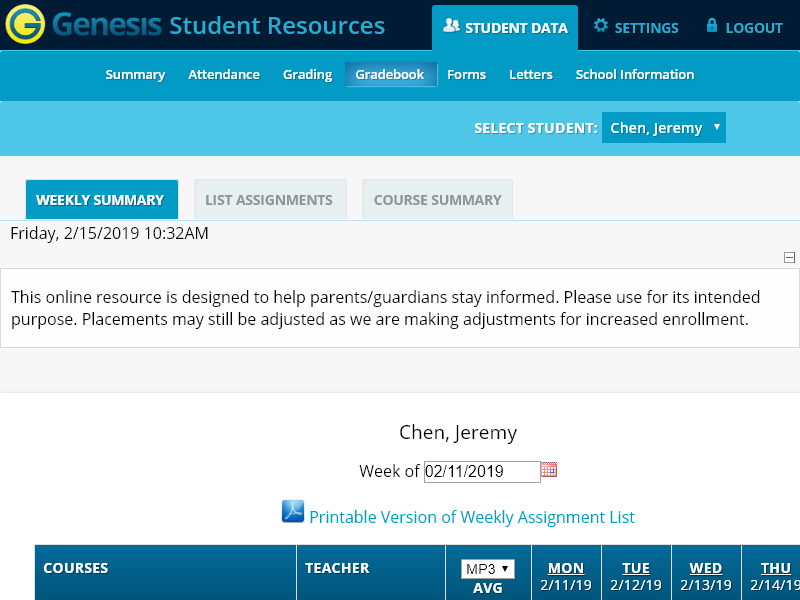
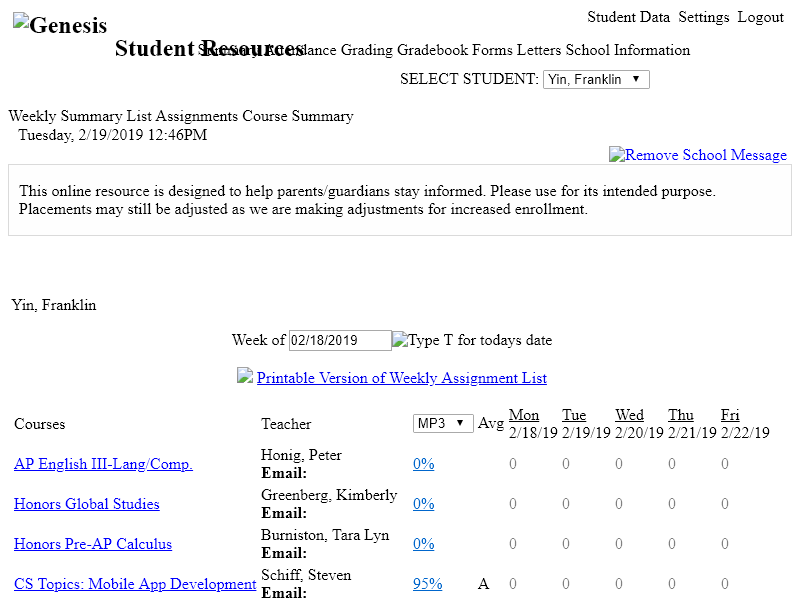
added URL params

diff --git a/puppet.js b/puppet.js
@@ -6,12 +6,14 @@ const bodyParser = require('body-parser');
 const app = express()
 const port = 3000
 app.use(bodyParser.json());
+app.use(bodyParser.urlencoded({ extended: true })); // support encoded bodies
 
 app.post('/', async (req, res) => {
-	//const username = req.body.username;
-	//const password = .password;
+	const username = req.body.username;//'10012734'
+	const password = req.body.password; //'Sled%2#9'
+	console.log(username	);
 	console.log(req.body);
-	var dataObj = await getData()
+	var dataObj = await getData(username,password)
 	res.send(dataObj)
 	})
 
@@ -19,21 +21,23 @@ app.listen(port, () => console.log(`Example app listening on port ${port}!`))
 
 const url = 'https://students.sbschools.org/genesis/parents?gohome=true';
 
-var id = '10012734'
-var email = encodeURIComponent(id+'@sbstudents.org');
-var pass = encodeURIComponent('Sled%2#9');
-var url2 = 'https://students.sbschools.org/genesis/j_security_check?j_username='+email+'&j_password='+pass;
+//var id = '10012734'
+
 
 function func(){
     eval("header_goToTab('studentdata&tab2=gradebook','studentid="+id+"');");
 }
 
 
-async function getData() {
-    const browser = await puppeteer.launch(/*{
+async function getData(id, pass) {
+	var email = encodeURIComponent(id+'@sbstudents.org');
+	pass = encodeURIComponent(pass);
+var url2 = 'https://students.sbschools.org/genesis/j_security_check?j_username='+email+'&j_password='+pass;
+
+    const browser = await puppeteer.launch({/*
         headless: false, // launch headful mode
         slowMo: 250, // slow down puppeteer script so that it's easier to follow visually
-      }*/);
+      */});
     const page = await browser.newPage();
 
     /*await page.setViewport({
@@ -41,12 +45,16 @@ async function getData() {
 	    height: 1080
 	})*/
 
-    /*page.on('request', request => {
-      if (request.resourceType() === 'image')
-        request.abort();
-      else
-        request.continue();
-  });*/
+    await page.setRequestInterception(true);
+
+    page.on('request', (req) => {
+        if(req.resourceType() == 'stylesheet' || req.resourceType() == 'font' || req.resourceType() === 'image' || req.resourceType() === 'media'){
+            req.abort();
+        }
+        else {
+            req.continue();
+        }
+	});
 
     await page.goto(url, {waitUntil: 'networkidle2'});
     await page.goto(url2, {waitUntil: 'networkidle2'});
